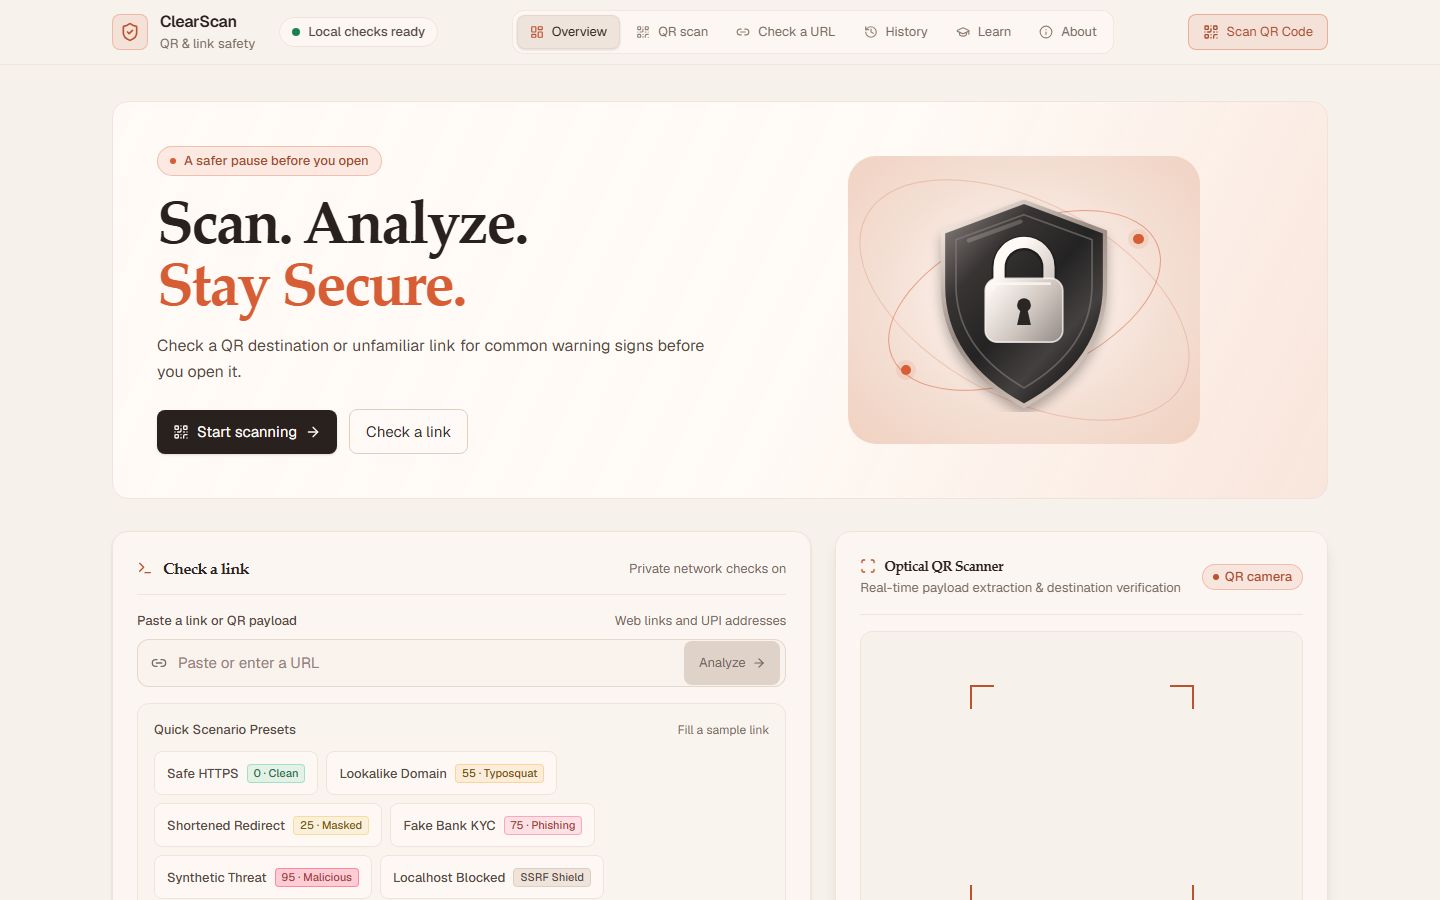
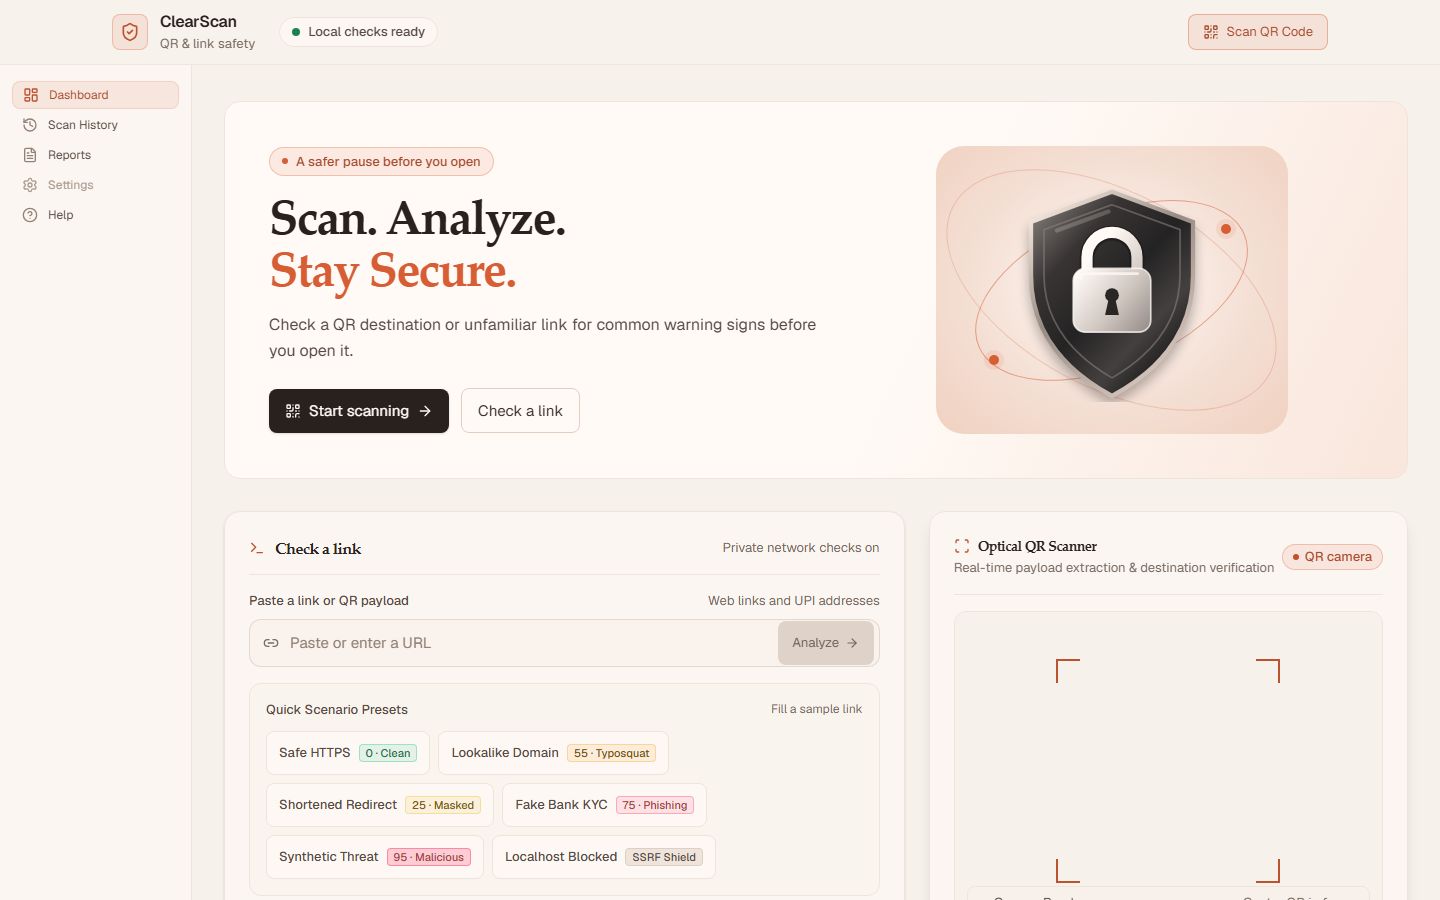
changing the design of the website

diff --git a/src/components/Navbar.tsx b/src/components/Navbar.tsx
@@ -9,6 +9,7 @@ import {
   History,
   GraduationCap,
   Info,
+  FileText,
 } from "lucide-react";
 
 interface NavbarProps {
@@ -25,7 +26,7 @@ export default function Navbar({
   const [mobileMenuOpen, setMobileMenuOpen] = useState(false);
 
   const navItems = [
-    { id: "dashboard", label: "Overview", icon: LayoutDashboard },
+    { id: "dashboard", label: "Dashboard", icon: LayoutDashboard },
     { id: "scanner", label: "QR scan", icon: QrCode },
     { id: "manual", label: "Check a URL", icon: Link2 },
     {
@@ -34,7 +35,8 @@ export default function Navbar({
       icon: History,
       badge: historyCount > 0 ? historyCount : undefined,
     },
-    { id: "learn", label: "Learn", icon: GraduationCap },
+    { id: "reports", label: "Reports", icon: FileText },
+    { id: "learn", label: "Help", icon: GraduationCap },
     { id: "about", label: "About", icon: Info },
   ];
 
@@ -74,35 +76,6 @@ export default function Navbar({
           </div>
         </div>
 
-        {/* Desktop Navigation */}
-          <nav aria-label="Primary" className="hidden lg:flex items-center gap-1 rounded-xl border border-slate-800/80 bg-slate-900/60 p-1">
-          {navItems.map((item) => {
-            const Icon = item.icon;
-            const isActive = activePage === item.id;
-            return (
-              <button
-                key={item.id}
-                type="button"
-                onClick={() => handleNavClick(item.id)}
-                aria-current={isActive ? "page" : undefined}
-                className={`flex items-center gap-2 rounded-lg px-3 py-1.5 text-xs font-medium transition-all ${
-                  isActive
-                    ? "bg-slate-800 text-white shadow-sm border border-slate-700/60"
-                    : "text-slate-400 hover:text-slate-200 hover:bg-slate-800/40"
-                }`}
-              >
-                <Icon className={`h-3.5 w-3.5 ${isActive ? "text-teal-400" : "text-slate-500"}`} />
-                <span>{item.label}</span>
-                {item.badge !== undefined && (
-                  <span className="ml-0.5 rounded-full bg-teal-500/15 border border-teal-500/30 px-1.5 py-0.2 text-[10px] font-semibold text-teal-300">
-                    {item.badge}
-                  </span>
-                )}
-              </button>
-            );
-          })}
-        </nav>
-
         {/* Primary Action Button */}
         <div className="hidden sm:flex items-center gap-3">
           <button
@@ -118,7 +91,7 @@ export default function Navbar({
         <button
           type="button"
           onClick={() => setMobileMenuOpen(!mobileMenuOpen)}
-            aria-controls="mobile-navigation"
+          aria-controls="mobile-navigation"
           className="inline-flex h-11 w-11 items-center justify-center rounded-lg border border-slate-800 bg-slate-900/80 text-slate-400 hover:text-white lg:hidden focus-visible:outline-none focus-visible:ring-2 focus-visible:ring-teal-500"
           aria-label={mobileMenuOpen ? "Close navigation menu" : "Open navigation menu"}
           aria-expanded={mobileMenuOpen}
@@ -137,9 +110,9 @@ export default function Navbar({
               return (
                 <button
                   key={item.id}
-                    type="button"
+                  type="button"
                   onClick={() => handleNavClick(item.id)}
-                    aria-current={isActive ? "page" : undefined}
+                  aria-current={isActive ? "page" : undefined}
                   className={`flex min-h-11 items-center justify-between rounded-lg px-3 py-2 text-sm font-medium transition-colors ${
                     isActive
                       ? "bg-slate-800 text-white border border-slate-700/60"

diff --git a/src/App.tsx b/src/App.tsx
@@ -1,5 +1,6 @@
 import { useEffect, useState } from "react";
 import Navbar from "./components/Navbar";
+import Sidebar from "./components/Sidebar";
 import Footer from "./components/Footer";
 import Dashboard from "./pages/Dashboard";
 import ScannerPage from "./pages/ScannerPage";
@@ -25,43 +26,54 @@ export default function App() {
     <div className="min-h-screen flex flex-col bg-slate-950 text-slate-100 antialiased selection:bg-teal-500/20 selection:text-teal-200">
       <a className="skip-link" href="#content">Skip to content</a>
       <Navbar
+        key={activePage}
         activePage={activePage}
         onNavigate={setActivePage}
         historyCount={history.length}
       />
 
-      <main id="content" tabIndex={-1} className="flex-1 mx-auto w-full max-w-7xl px-4 py-7 sm:px-6 sm:py-9 lg:px-8">
-        {activePage === "dashboard" && (
-          <Dashboard
-            stats={stats}
-            recentScans={history}
-            onNavigate={setActivePage}
-            onScanComplete={handleScanComplete}
-          />
-        )}
+      <div className="mx-auto flex w-full max-w-[1440px] flex-1">
+        <Sidebar
+          activePage={activePage}
+          onNavigate={setActivePage}
+          historyCount={history.length}
+        />
+        <div className="flex min-w-0 flex-1 flex-col">
+          <main id="content" tabIndex={-1} className="mx-auto w-full max-w-7xl flex-1 px-4 py-7 sm:px-6 sm:py-9 lg:px-8">
+            {activePage === "dashboard" && (
+              <Dashboard
+                stats={stats}
+                recentScans={history}
+                onNavigate={setActivePage}
+                onScanComplete={handleScanComplete}
+              />
+            )}
 
-        {activePage === "scanner" && (
-          <ScannerPage onScanComplete={handleScanComplete} defaultTab="qr" />
-        )}
+            {activePage === "scanner" && (
+              <ScannerPage onScanComplete={handleScanComplete} defaultTab="qr" />
+            )}
 
-        {activePage === "manual" && (
-          <ScannerPage onScanComplete={handleScanComplete} defaultTab="url" />
-        )}
+            {activePage === "manual" && (
+              <ScannerPage onScanComplete={handleScanComplete} defaultTab="url" />
+            )}
 
-        {activePage === "history" && (
-          <HistoryPage
-            history={history}
-            onClearHistory={clearHistory}
-            onRemoveItem={removeScan}
-          />
-        )}
+            {(activePage === "history" || activePage === "reports") && (
+              <HistoryPage
+                history={history}
+                onClearHistory={clearHistory}
+                onRemoveItem={removeScan}
+                reportView={activePage === "reports"}
+              />
+            )}
 
-        {activePage === "learn" && <LearnPage />}
+            {activePage === "learn" && <LearnPage />}
 
-        {activePage === "about" && <AboutPage />}
-      </main>
+            {activePage === "about" && <AboutPage />}
+          </main>
 
-      <Footer />
+          <Footer onNavigate={setActivePage} />
+        </div>
+      </div>
     </div>
   );
 }

diff --git a/src/components/Sidebar.tsx b/src/components/Sidebar.tsx
@@ -1,0 +1,72 @@
+import {
+  CircleHelp,
+  FileText,
+  LayoutDashboard,
+  Settings,
+  History,
+} from "lucide-react";
+
+interface SidebarProps {
+  activePage: string;
+  onNavigate: (page: string) => void;
+  historyCount: number;
+}
+
+const items = [
+  { id: "dashboard", label: "Dashboard", icon: LayoutDashboard },
+  { id: "history", label: "Scan History", icon: History },
+  { id: "reports", label: "Reports", icon: FileText },
+  { id: "settings", label: "Settings", icon: Settings, disabled: true },
+  { id: "learn", label: "Help", icon: CircleHelp },
+];
+
+export default function Sidebar({ activePage, onNavigate, historyCount }: SidebarProps) {
+  return (
+    <aside className="hidden w-44 shrink-0 border-r border-slate-800 bg-slate-900/55 px-3 py-4 lg:block xl:w-48">
+      <nav aria-label="Primary navigation" className="sticky top-20 space-y-0.5">
+        {items.map((item) => {
+          const Icon = item.icon;
+          const isActive = activePage === item.id || (item.id === "dashboard" && activePage === "dashboard");
+          const content = (
+            <>
+              <Icon className={`h-4 w-4 shrink-0 ${isActive ? "text-[#bd522e]" : "text-slate-500"}`} aria-hidden="true" />
+              <span className="min-w-0 flex-1 truncate">{item.label}</span>
+              {item.id === "history" && historyCount > 0 && (
+                <span className="rounded-full bg-slate-800 px-1.5 py-0.5 text-[10px] font-semibold text-slate-300">
+                  {historyCount}
+                </span>
+              )}
+              {item.disabled && <span className="sr-only">Unavailable in this version</span>}
+            </>
+          );
+
+          return item.disabled ? (
+            <button
+              key={item.id}
+              type="button"
+              disabled
+              title="Settings are not part of the current application."
+              className="flex min-h-7 w-full cursor-not-allowed items-center gap-2.5 rounded-lg px-2.5 text-left text-[11px] font-medium text-slate-500 opacity-80"
+            >
+              {content}
+            </button>
+          ) : (
+            <button
+              key={item.id}
+              type="button"
+              onClick={() => onNavigate(item.id)}
+              aria-current={isActive ? "page" : undefined}
+              className={`flex min-h-7 w-full items-center gap-2.5 rounded-lg px-2.5 text-left text-[11px] font-medium transition-colors focus-visible:outline-none focus-visible:ring-2 focus-visible:ring-teal-500 ${
+                isActive
+                  ? "border border-teal-500/15 bg-teal-500/10 text-[#a84c2e]"
+                  : "text-slate-300 hover:bg-slate-800/75 hover:text-slate-100"
+              }`}
+            >
+              {content}
+            </button>
+          );
+        })}
+      </nav>
+    </aside>
+  );
+}

diff --git a/src/components/Footer.tsx b/src/components/Footer.tsx
@@ -1,6 +1,10 @@
 import { ShieldCheck, ExternalLink, Terminal, Lock } from "lucide-react";
 
-export default function Footer() {
+interface FooterProps {
+  onNavigate?: (page: string) => void;
+}
+
+export default function Footer({ onNavigate }: FooterProps) {
   return (
     <footer className="border-t border-slate-800/80 bg-slate-950 px-4 py-8 text-slate-400 sm:px-6 lg:px-8">
       <div className="mx-auto grid max-w-7xl gap-8 lg:grid-cols-[1.2fr_1fr]">
@@ -26,6 +30,15 @@ export default function Footer() {
               <span>Spring Boot + React Engine</span>
             </span>
           </div>
+          {onNavigate && (
+            <button
+              type="button"
+              onClick={() => onNavigate("about")}
+              className="pt-1 text-xs font-medium text-slate-400 underline decoration-slate-600 underline-offset-4 hover:text-slate-200 focus-visible:outline-none focus-visible:ring-2 focus-visible:ring-teal-500"
+            >
+              About ClearScan
+            </button>
+          )}
         </div>
 
         <div className="space-y-3 text-xs leading-relaxed text-slate-400">

diff --git a/src/pages/HistoryPage.tsx b/src/pages/HistoryPage.tsx
@@ -17,12 +17,14 @@ interface HistoryPageProps {
   history: ScanHistoryItem[];
   onClearHistory: () => void;
   onRemoveItem: (id: string) => void;
+  reportView?: boolean;
 }
 
 export default function HistoryPage({
   history,
   onClearHistory,
   onRemoveItem,
+  reportView = false,
 }: HistoryPageProps) {
   const [search, setSearch] = useState("");
   const [filterLevel, setFilterLevel] = useState<string>("ALL");
@@ -70,11 +72,13 @@ export default function HistoryPage({
           <div className="flex items-center gap-2.5">
             <Terminal className="h-5 w-5 text-teal-400" />
             <h1 className="text-xl sm:text-2xl font-bold tracking-tight text-white">
-              Scan history
+              {reportView ? "Reports" : "Scan history"}
             </h1>
           </div>
           <p className="mt-1 text-sm text-slate-400">
-            Your scan history is stored in this browser.
+            {reportView
+              ? "Security reports from scans stored in this browser."
+              : "Your scan history is stored in this browser."}
           </p>
         </div>
 

diff --git a/src/pages/Dashboard.tsx b/src/pages/Dashboard.tsx
@@ -55,7 +55,7 @@ export default function Dashboard({
               <span>A safer pause before you open</span>
             </div>
 
-            <h1 className="text-4xl font-semibold leading-[.98] tracking-tight text-white sm:text-5xl lg:text-6xl">
+            <h1 className="text-3xl font-semibold leading-[1] tracking-tight text-white sm:text-5xl lg:text-5xl">
               <span className="block">Scan. Analyze.</span>
               <span className="mt-1 block text-teal-500">Stay Secure.</span>
             </h1>

diff --git a/reports/clearscan-redesign/FINAL-REPORT.md b/reports/clearscan-redesign/FINAL-REPORT.md
@@ -6,12 +6,23 @@ Applied the selected editorial, product-focused reference across the existing Cl
 
 ## Discovery and boundaries
 
-Reviewed the React 19, TypeScript, Vite, and Tailwind CSS v4 frontend, the Spring Boot scan API and client fallback, local-storage scan history, QR camera scanner, educational topics and quiz, and all six active views. The frontend has no authentication or database-backed account flow. The redesign keeps the actual app views and operations: Overview, QR scan, Check a URL, History, Learn, and About. It does not add the reference image's sign-in, account settings, subscription, or fictional analytics features.
+Reviewed the React 19, TypeScript, Vite, and Tailwind CSS v4 frontend, the Spring Boot scan API and client fallback, local-storage scan history, QR camera scanner, educational topics and quiz, and all six original views. The frontend has no authentication or database-backed account flow. The app retains Overview, QR scan, Check a URL, History, Learn, and About, and adds a Reports view that reuses saved scan records. It does not add the reference image's sign-in, account settings, subscription, or fictional analytics features.
+
+## Reference comparison and page mapping
+
+| Reference requirement | Existing app before this pass | Implementation |
+| --- | --- | --- |
+| Compact left rail with Dashboard, Scan History, Reports, Settings, Help | Desktop used a centered six-link top navigation. The app had overview, scan, history, Learn, and About views; it had no Settings capability. | Added the five-row desktop sidebar in the reference order. Dashboard and Scan History use existing views. Reports reuses real scan reports stored with browser history. Help opens the existing Learn view. Settings is shown disabled because no settings capability exists to connect. |
+| Landing and dashboard surfaces | Overview is the real scan workspace; there is no marketing-only landing route or account dashboard. | Kept URL and QR scan actions visible on Overview and preserved actual routes. Account controls, marketing claims, and fictional dashboard values were not added. |
+| Login and profile/settings pages | No authentication, account, or settings implementation exists in this frontend. | Not recreated as working routes; adding them would invent application functionality. |
+| Reference palette and editorial typography | The prior pass had applied ivory, charcoal, terracotta, serif display text, and Geist body text. | Retained the approved tokens and applied the reference sidebar order, icon placement, active state, and compact labels. |
+| Existing secondary routes | QR scan, URL check, History, Learn, and About were available through the original desktop navigation. | QR and URL check remain available from Overview and the mobile navigation; History and Help are in the sidebar; About remains in the footer and mobile navigation. |
 
 ## Changes
 
 - **Shared visual system:** Replaced the previous evergreen direction with warm ivory and charcoal tokens, terracotta emphasis, refined serif headings, Geist body text, consistent borders, controls, cards, focus states, and dark-mode adaptations.
 - **Overview:** Put the real QR and URL scan actions first, added the reference-inspired headline and inline shield illustration, and retained actual scan summary counts. The activity chart is computed from scan timestamps stored in this browser and shows a real empty state when the last seven days have no scans.
+- **Dashboard navigation:** Replaced the desktop link group with the five-entry reference sidebar. Reports reuses reports already stored in scan history. Settings is visibly disabled and announced as unavailable because no settings feature exists in the current project.
 - **Scan and results:** Updated the URL form, QR scanner, scan status, and security report to use the new surface and color system while preserving scan requests and result handling.
 - **History, Learn, and About:** Applied the shared typography and layout to local history, learning content and quiz, and the existing product information and contact link.
 - **Safety and accessibility:** Kept the URL validation correction that rejects invalid hostnames and clears stale results on input change. Preserved page navigation, semantic headings, keyboard focus styles, feedback announcements, mobile hit areas, and reduced-motion handling.
@@ -23,16 +34,18 @@ Updated dashboard screenshots are in [`direction-c/`](direction-c/):
 - [Mobile, 390 × 844](direction-c/overview-390.png)
 - [Tablet, 768 × 900](direction-c/overview-768.png)
 - [Desktop, 1440 × 900](direction-c/overview-1440.png)
-- [Earlier desktop dark-mode capture](direction-c/overview-desktop-dark.png)
+- [Desktop dark mode, 1440 × 900](direction-c/overview-1440-dark.png)
 
-Responsive measurements are in [`layout-mobile.json`](direction-c/layout-mobile.json), [`layout-tablet.json`](direction-c/layout-tablet.json), and [`layout-desktop.json`](direction-c/layout-desktop.json). Each reports zero horizontal overflow. The existing History, Learn, About, QR scan, and URL scan views were also opened during the browser review. Camera permission was not granted, so physical camera capture was not verified.
+The desktop capture includes the new five-item sidebar; the mobile capture shows the responsive overview with the sidebar collapsed to the menu control. Browser review also opened Reports, Scan History, Help, QR scanning, URL inspection, and About. Settings remains disabled because there is no settings behavior in the existing application. Camera permission was not granted, so physical camera capture was not verified.
+
+Responsive measurements are in [`layout-mobile.json`](direction-c/layout-mobile.json), [`layout-tablet.json`](direction-c/layout-tablet.json), and [`layout-desktop.json`](direction-c/layout-desktop.json). All report zero horizontal overflow after the sidebar change. The refreshed screenshots show no visible clipping at 390, 768, and 1440 pixels.
 
 ## Verification and limits
 
 - `npm run build`: passed (TypeScript and Vite production build).
 - `npm test`: passed (3 files, 17 tests).
 - `npm run lint`: completed with three warnings: one in the Web Uplift runner and two existing fast-refresh warnings in shared button and badge modules.
-- The production build reports a 690 kB JavaScript chunk (204 kB gzip), above Vite's 500 kB warning threshold.
+- The production build reports a 692 kB JavaScript chunk (205 kB gzip), above Vite's 500 kB warning threshold.
 - Backend API and Google Safe Browsing integration were not verified during this frontend redesign; Maven was not available in the earlier environment. The current UI continues to use the existing scan service and fallback behavior.
 - The earlier dependency install reported six audit findings (two low, four moderate); dependency updates were outside this redesign.
 
